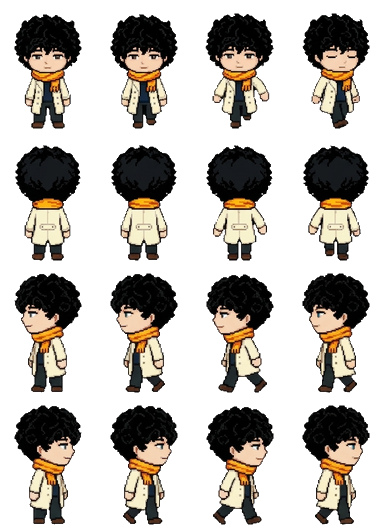
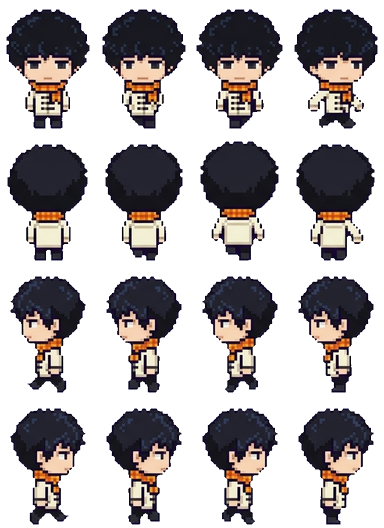
Redraw Kunou Totonou in the shared art style
Claude-Session: https://claude.ai/code/session_01KaPsBYLrtbRfMYNG2xeBCK

diff --git a/docs/app.js b/docs/app.js
@@ -75,7 +75,7 @@ function spr(cat, k, col, sc) {
   return `<div class="clip" style="width:${it[2] * sc}px;height:${it[3] * sc}px;POS"><img class="px" src="assets/decor/${cat}.png" alt="" style="width:${S.sw * sc}px;height:${S.sh * sc}px;margin-left:${-col * S.cw * sc}px;margin-top:${-i * S.ch * sc}px"></div>`;
 }
 const icon = (k, sz) => `<span class="itm" style="width:${sz}px;height:${sz}px"><img class="px" src="assets/ui/items.png" alt="" style="width:${IT.length * sz}px;height:${sz}px;margin-left:${-ITM[k].i * sz}px"></span>`;
-const face = (id, w) => { const s = w / 96; return `<img class="px" src="assets/ch/${id}.webp?v=35" alt="" style="position:absolute;width:${384 * s}px;height:${528 * s}px;left:${-(96 * s - w) / 2}px;top:0;max-width:none">`; };
+const face = (id, w) => { const s = w / 96; return `<img class="px" src="assets/ch/${id}.webp?v=36" alt="" style="position:absolute;width:${384 * s}px;height:${528 * s}px;left:${-(96 * s - w) / 2}px;top:0;max-width:none">`; };
 
 // ---------- 저장 ----------
 let fb = null, user = null, S = null, saveT = null;
@@ -143,7 +143,7 @@ function sleepHTML(id, r, dy) {
   const pos = r.a && r.a[0] === 'bed' ? 'left:3%;bottom:20%' : r.b && r.b[0] === 'bed' ? 'right:3%;bottom:20%' : 'left:calc(50% - 44px);bottom:6%';
   const s = 36 / 96;
   return `<div style="position:absolute;width:88px;height:56px;${pos};z-index:${dy ? 4 : 5};${dy ? `transform:translate(12px,${dy}px)` : ''}"><div style="position:absolute;inset:0;filter:brightness(.22)">
-    <div style="position:absolute;left:11px;top:1px;width:36px;height:50px;overflow:hidden;transform:rotate(-90deg)"><img class="px" src="assets/ch/${id}.webp?v=35" alt="" style="width:${384 * s}px;height:${528 * s}px;max-width:none;margin-top:${-132 * s}px"></div>
+    <div style="position:absolute;left:11px;top:1px;width:36px;height:50px;overflow:hidden;transform:rotate(-90deg)"><img class="px" src="assets/ch/${id}.webp?v=36" alt="" style="width:${384 * s}px;height:${528 * s}px;max-width:none;margin-top:${-132 * s}px"></div>
     <div style="position:absolute;left:19px;top:19px;width:67px;height:29px;border:2px solid var(--ink);border-radius:8px 6px 4px 4px;background:#8ccff5;background-image:repeating-linear-gradient(90deg,transparent 0 10px,rgba(255,255,255,.5) 10px 13px)"></div></div>
     ${dy ? '' : '<span class="emo" style="left:8px;top:-22px;color:#5b6bd6">Z z z</span>'}</div>`;
 }
@@ -153,8 +153,8 @@ function roomHTML(id, o, scale) {
     <div class="floor" style="background-color:${PAL[r.fc][1]};background-image:${tileUrl('floor', r.fl)}"></div>
     ${slot('deco', r.dc, 'left:6%;top:6%')}${slot('furn', r.a, 'left:3%;bottom:20%')}${slot('furn', r.b, 'right:3%;bottom:20%')}${slot('prop', r.pr, 'left:28%;bottom:4%;z-index:2')}
     ${id && o.sleeping && g ? sleepHTML(g, r, -16) : ''}${id && o.sleeping ? sleepHTML(id, r) : ''}${id && o.job ? `<div style="position:absolute;left:50%;top:38%;transform:translateX(-50%);z-index:5;background:#fff;border:3px solid var(--ink);border-radius:10px;padding:6px 10px;font-size:11px;text-align:center;line-height:1.5"><img src="assets/ui/ic_job.png" alt="" style="width:18px;vertical-align:-4px"> ${WORK[id] ? WORK[id][1] : esc(JOB_NAME[id]) + ' 알바 중'}${g ? `<br><small>${esc(nameOf(g))}도 같이</small>` : ''}<br><b id="jobleft">${timeLeft(o.job.until)}</b></div>` : ''}
-    ${id ? `<div class="shadow" id="shd" ${o.sleeping || o.job ? 'style="display:none"' : ''}></div><div class="man" id="man" ${o.sleeping || o.job ? 'style="display:none"' : ''}><img class="px" src="assets/ch/${id}.webp?v=35" alt="${esc(nameOf(id))}"></div><span class="emo" id="emo" hidden></span><span class="mumble" id="mum" hidden></span>` : ''}
-    ${g ? `<div class="shadow" id="gshd" ${hideG}></div><div class="man" id="gman" ${hideG}><img class="px" src="assets/ch/${g}.webp?v=35" alt="${esc(nameOf(g))}"></div><span class="emo" id="gemo" hidden></span><span class="mumble gmum" id="gmum" hidden></span>` : ''}
+    ${id ? `<div class="shadow" id="shd" ${o.sleeping || o.job ? 'style="display:none"' : ''}></div><div class="man" id="man" ${o.sleeping || o.job ? 'style="display:none"' : ''}><img class="px" src="assets/ch/${id}.webp?v=36" alt="${esc(nameOf(id))}"></div><span class="emo" id="emo" hidden></span><span class="mumble" id="mum" hidden></span>` : ''}
+    ${g ? `<div class="shadow" id="gshd" ${hideG}></div><div class="man" id="gman" ${hideG}><img class="px" src="assets/ch/${g}.webp?v=36" alt="${esc(nameOf(g))}"></div><span class="emo" id="gemo" hidden></span><span class="mumble gmum" id="gmum" hidden></span>` : ''}
     ${o.sleeping ? `<div class="night"></div><div class="sleepleft">쿨쿨 · 일어나기까지 <b id="sleepleft">${timeLeft(wakeAt(o)).replace(' 남음', '')}</b></div>` : ''}
   </div>`;
 }
@@ -167,7 +167,7 @@ function meterHTML(o) {
 const ic = (act, img, label, pressed) => `<button class="ic" data-act="${act}" ${pressed ? 'aria-pressed="true"' : ''}><img src="assets/ui/ic_${img}.png?v=2" alt="">${label}</button>`;
 
 let dropStyle = null; const cheat = {};
-const APP_V = 107, COUPONS = { NINOGUYA: 3000 };
+const APP_V = 108, COUPONS = { NINOGUYA: 3000 };
 // 쿠폰 입력 정리: 한글 자판 상태로 친 글자(ㅜㅑㅜㅐ혀ㅛㅁ)도 영어 자판 글자로 바꾸고, 대소문자·띄어쓰기·마침표는 무시해요
 const KEY = { ㄱ: 'r', ㄲ: 'R', ㄴ: 's', ㄷ: 'e', ㄸ: 'E', ㄹ: 'f', ㅁ: 'a', ㅂ: 'q', ㅃ: 'Q', ㅅ: 't', ㅆ: 'T', ㅇ: 'd', ㅈ: 'w', ㅉ: 'W', ㅊ: 'c', ㅋ: 'z', ㅌ: 'x', ㅍ: 'v', ㅎ: 'g',
   ㅏ: 'k', ㅐ: 'o', ㅑ: 'i', ㅒ: 'O', ㅓ: 'j', ㅔ: 'p', ㅕ: 'u', ㅖ: 'P', ㅗ: 'h', ㅘ: 'hk', ㅙ: 'ho', ㅚ: 'hl', ㅛ: 'y', ㅜ: 'n', ㅝ: 'nj', ㅞ: 'np', ㅟ: 'nl', ㅠ: 'b', ㅡ: 'm', ㅢ: 'ml', ㅣ: 'l',
@@ -407,7 +407,7 @@ function startTrip(k) {
   if (tg) lines[1] = `${nameOf(tg)}: ${withHim(sub(pick(GLX(tg).trip), o, c.n), tg)}`;
   const n = (FR[id] || [4, 4, 4, 4])[3], el = document.createElement('div'); el.className = 'tripview';
   el.innerHTML = `<div class="tsay"> </div><div class="tstage" style="background-image:url(assets/travel/${k}.png?v=2)"><div class="tplace">${esc(c.n)}</div>
-    <div class="twalker"><img class="px" src="assets/ch/${id}.webp?v=35" alt=""></div>${tg ? `<div class="twalker tgirl"><img class="px" src="assets/ch/${tg}.webp?v=35" alt=""></div>` : ''}<span class="emo tjoy">♪</span></div>
+    <div class="twalker"><img class="px" src="assets/ch/${id}.webp?v=36" alt=""></div>${tg ? `<div class="twalker tgirl"><img class="px" src="assets/ch/${tg}.webp?v=36" alt=""></div>` : ''}<span class="emo tjoy">♪</span></div>
     <div class="tbar"><i></i></div><button class="btn white tskip" data-tskip="1">바로 돌아오기</button>`;
   document.body.appendChild(el);
   const gimg = el.querySelector('.tgirl img'), gn = tg ? (FR[tg] || [4, 4, 4, 4])[3] : 1;
@@ -636,7 +636,7 @@ setInterval(() => { if (S && user) { tickTime(); save(); } }, 60000);
     if (nv > APP_V && !location.search.includes('u=' + nv)) { location.replace(location.pathname + '?u=' + nv); return; }
   } catch { }
   app.innerHTML = '<div class="start"><div class="egg"><div class="scr"></div></div><div class="note">불러오는 중....</div></div>';
-  const [c, t, f, it, mu, ct, tv, gl, sts] = await Promise.all(['data/chars.json', 'data/talk.json', 'data/frames.json', 'data/items.json', 'data/mumble.json', 'data/countries.json', 'data/travel.json', 'data/girls.json', 'data/sets.json'].map(u => fetch(u + '?v=107').then(r => r.ok ? r.json() : {})));
+  const [c, t, f, it, mu, ct, tv, gl, sts] = await Promise.all(['data/chars.json', 'data/talk.json', 'data/frames.json', 'data/items.json', 'data/mumble.json', 'data/countries.json', 'data/travel.json', 'data/girls.json', 'data/sets.json'].map(u => fetch(u + '?v=108').then(r => r.ok ? r.json() : {})));
   CH = c; CHM = Object.fromEntries(c.map(x => [x.id, x])); TALK = t; FR = f; IT = it; ITM = Object.fromEntries(it.map(x => [x.k, x])); MUM = mu; CTRY = ct; TRV = tv; GL = Array.isArray(gl) ? gl : []; SETS = Array.isArray(sts) ? sts : []; GLM = Object.fromEntries(GL.map(x => [x.id, x]));
   try { await initFirebase(); } catch (e) { console.warn('Firebase 연결 실패, 기기 저장으로', e); fb = null; }
   if (fb) {

diff --git a/docs/index.html b/docs/index.html
@@ -18,6 +18,6 @@
 <main id="app" aria-live="polite"></main>
 <div id="toast" role="status" hidden></div>
 <script src="firebase-config.js?v=3"></script>
-<script type="module" src="app.js?v=107"></script>
+<script type="module" src="app.js?v=108"></script>
 </body>
 </html>
